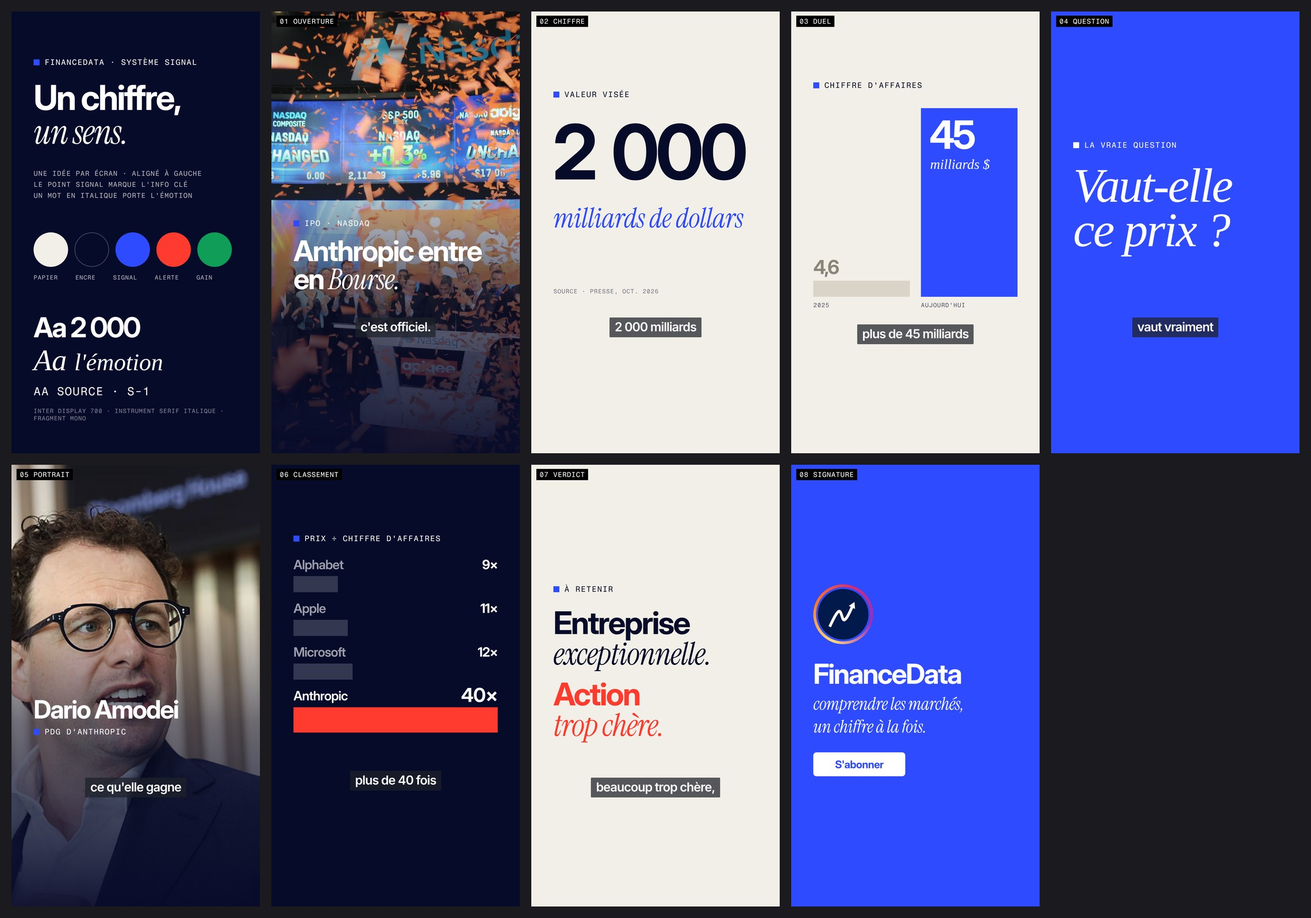
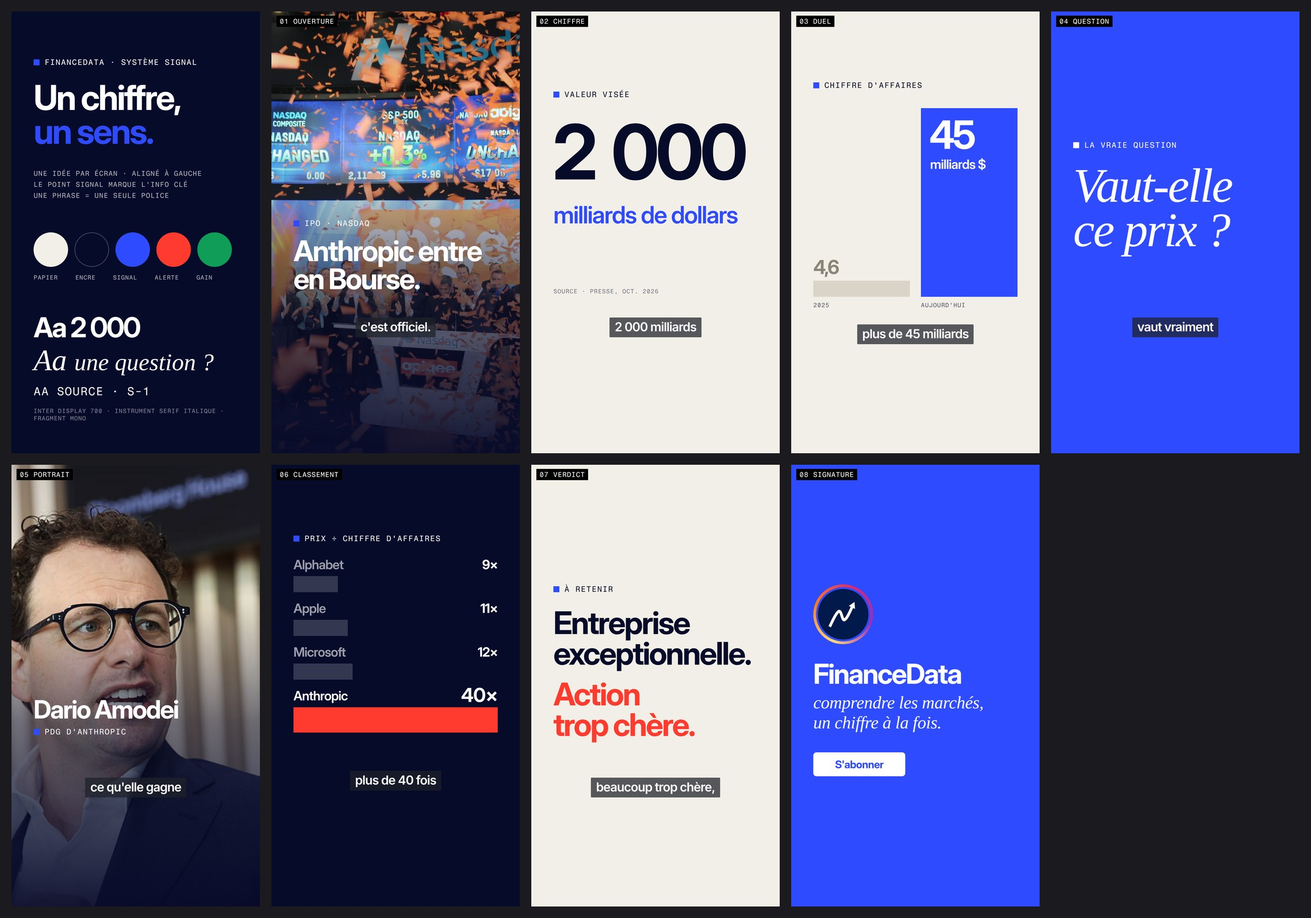
Branding Signal : une seule police par phrase, univers données « Le Décodeur » (9 templates)
Claude-Session: https://claude.ai/code/session_0172khLHKtjafTGZdmNpPSJZ

diff --git a/financedata-univers/branding-signal/planche-donnees.html b/financedata-univers/branding-signal/planche-donnees.html
@@ -1,0 +1,215 @@
+<!doctype html>
+<html lang="fr">
+<head>
+<meta charset="UTF-8">
+<title>FinanceData · Le Décodeur</title>
+<link rel="stylesheet" href="signal.css">
+<script src="rms.js"></script>
+<style>
+  /* Univers « Le Décodeur » : la donnée comme grille de lecture.
+     Anatomie fixe d'un écran de données : rubrique (point Signal + mono) → constat (titre) →
+     ce qui est mesuré (une ligne grise) → le graphique, étiqueté directement → la source (mono).
+     Pas de légende, pas de quadrillage : chaque valeur est écrite là où l'œil la cherche. */
+  .ti { position: absolute; left: 96px; right: 96px; top: 380px; font-weight: 700; font-size: 92px; letter-spacing: -.045em; line-height: 1; }
+  .st { position: absolute; left: 96px; right: 96px; font-weight: 500; font-size: 44px; letter-spacing: -.02em; color: var(--gris); }
+  .encre .st { color: rgba(255,255,255,.6); }
+  .f svg { position: absolute; overflow: visible; }
+  svg text { font-family: "Display"; font-variation-settings: "opsz" 32; }
+  .mono { font-family: "Mono" !important; letter-spacing: .06em; }
+</style>
+</head>
+<body>
+
+<!-- 0. L'univers -->
+<div class="f encre" id="d0">
+  <div class="tag" style="top:300px"><i></i>Le Décodeur</div>
+  <div class="h" style="top:390px; font-size:140px">Les données,<br>enfin lisibles.</div>
+  <div class="st" style="top:720px; font-size:52px; line-height:1.35; color:rgba(255,255,255,.75)">Chaque analyse suit la même grille :</div>
+  <div class="abs" style="left:96px; top:860px; font-weight:700; font-size:96px; letter-spacing:-.045em; line-height:1.3">
+    <div><span style="color:var(--signal)">■</span>&nbsp; Le chiffre</div>
+    <div><span style="color:var(--signal)">■</span>&nbsp; Le repère</div>
+    <div><span style="color:var(--signal)">■</span>&nbsp; Le verdict</div>
+  </div>
+  <div class="src" style="top:1290px; opacity:.6">Ce qui se passe · À quoi le comparer · Ce que ça change pour vous</div>
+</div>
+
+<!-- 1. LA COURBE : une série, deux points étiquetés -->
+<div class="f papier" id="d1"><div class="lbl">D1 LA COURBE</div>
+  <div class="tag" style="top:300px"><i></i>Hermès</div>
+  <div class="ti">−57 % depuis<br>son sommet</div>
+  <div class="st" style="top:590px">Cours de l'action, en euros</div>
+  <svg id="c1" width="1080" height="620" style="left:0; top:660px"></svg>
+  <div class="src" style="top:1250px">Source · Yahoo Finance, oct. 2026</div>
+</div>
+
+<!-- 2. LE REPÈRE : la signature du Décodeur, une échelle avec zones -->
+<div class="f papier" id="d2"><div class="lbl">D2 LE REPÈRE</div>
+  <div class="tag" style="top:300px"><i></i>Valorisation</div>
+  <div class="ti">Anthropic,<br>hors de la grille</div>
+  <div class="st" style="top:590px">Prix ÷ chiffre d'affaires annuel</div>
+  <svg id="c2" width="1080" height="560" style="left:0; top:680px"></svg>
+  <div class="src" style="top:1250px">Repères FinanceData · Companiesmarketcap, oct. 2026</div>
+</div>
+
+<!-- 3. LE DÉCODAGE : traduire un ratio en euros -->
+<div class="f papier" id="d3"><div class="lbl">D3 LE DÉCODAGE</div>
+  <div class="tag" style="top:300px"><i></i>Concrètement</div>
+  <div class="ti">Pour 100 € d'actions,<br>combien de ventes ?</div>
+  <div class="num" style="top:640px; font-size:300px; color:var(--alerte)">2,30 €</div>
+  <div class="st" style="top:920px; color:var(--encre); font-weight:600">par an chez Anthropic</div>
+  <svg id="c3" width="1080" height="200" style="left:0; top:1010px"></svg>
+  <div class="src" style="top:1250px">Calcul · 100 € ÷ 43 (prix ÷ ventes)</div>
+</div>
+
+<!-- 4. LA DÉCOMPOSITION : ce qu'il y a dans un chiffre -->
+<div class="f papier" id="d4"><div class="lbl">D4 LA DÉCOMPOSITION</div>
+  <div class="tag" style="top:300px"><i></i>Perte S1 2026</div>
+  <div class="ti">Une perte surtout<br>comptable</div>
+  <div class="st" style="top:590px">Perte nette, en milliards de dollars</div>
+  <svg id="c4" width="1080" height="560" style="left:0; top:680px"></svg>
+  <div class="src" style="top:1250px">Source · prospectus S-1, oct. 2026</div>
+</div>
+
+<!-- 5. LA PART : grille de 100 cases -->
+<div class="f papier" id="d5"><div class="lbl">D5 LA PART</div>
+  <div class="tag" style="top:300px"><i></i>Dépendance</div>
+  <div class="ti">2 clients font<br>un quart des ventes</div>
+  <div class="st" style="top:590px">Part du chiffre d'affaires, en %</div>
+  <svg id="c5" width="1080" height="600" style="left:0; top:660px"></svg>
+  <div class="src" style="top:1250px">Source · prospectus S-1, oct. 2026</div>
+</div>
+
+<!-- 6. LA PENTE : avant / après -->
+<div class="f papier" id="d6"><div class="lbl">D6 LA PENTE</div>
+  <div class="tag" style="top:300px"><i></i>Prix</div>
+  <div class="ti">Le prix a doublé<br>en cinq mois</div>
+  <div class="st" style="top:590px">Valorisation, en milliards de dollars</div>
+  <svg id="c6" width="1080" height="580" style="left:0; top:660px"></svg>
+  <div class="src" style="top:1250px">Source · presse, mai et oct. 2026</div>
+</div>
+
+<!-- 7. LA GRILLE : le verdict récurrent de fin d'analyse -->
+<div class="f encre" id="d7"><div class="lbl">D7 LA GRILLE</div>
+  <div class="tag" style="top:300px"><i></i>La grille FinanceData</div>
+  <div class="ti">Anthropic</div>
+  <svg id="c7" width="1080" height="700" style="left:0; top:560px"></svg>
+  <div class="src" style="top:1250px; opacity:.6">Lecture FinanceData · pas un conseil en investissement</div>
+</div>
+
+<!-- 8. CHIFFRE CLÉ EN CONTEXTE : nombre + barre de comparaison -->
+<div class="f encre" id="d8"><div class="lbl">D8 LE CONTEXTE</div>
+  <div class="tag" style="top:300px"><i></i>Croissance</div>
+  <div class="ti">Ventes × 14<br>en un an</div>
+  <div class="st" style="top:590px">Rythme de ventes annuel, en milliards $</div>
+  <svg id="c8" width="1080" height="580" style="left:0; top:660px"></svg>
+  <div class="src" style="top:1250px; opacity:.6">Source · prospectus S-1, oct. 2026</div>
+</div>
+
+<script>
+var NS = "http://www.w3.org/2000/svg";
+var C = { encre: "#070b2a", signal: "#2f4bff", gris: "#8a8679", alerte: "#ff3b2f", gain: "#0f9d58", pale: "#dcd7ca" };
+function el(svg, tag, a, text) { var e = document.createElementNS(NS, tag); for (var k in a) e.setAttribute(k, a[k]); if (text != null) e.textContent = text; svg.appendChild(e); return e; }
+function T(svg, x, y, s, size, fill, w, anchor, mono) { return el(svg, "text", { x: x, y: y, "font-size": size, fill: fill, "font-weight": w || 600, "text-anchor": anchor || "start", "letter-spacing": mono ? "2" : "-1", class: mono ? "mono" : "" }, s); }
+function fr(v, d) { return v.toLocaleString("fr-FR", { minimumFractionDigits: d || 0, maximumFractionDigits: d || 0 }).replace(/[  ]/g, " "); }
+
+// D1 : cours d'Hermès, 2018 → aujourd'hui
+(function () {
+  var g = document.getElementById("c1"), R = window.RMS;
+  var t = function (d) { return +d.slice(0, 4) + (+d.slice(5, 7) - 1) / 12 + (+d.slice(8, 10)) / 365; };
+  var t0 = t(R[0][0]), t1 = t(R[R.length - 1][0]);
+  var X = function (v) { return 96 + (v - t0) / (t1 - t0) * 800; }, Y = function (v) { return 520 - v / 3000 * 440; };
+  var pk = R.reduce(function (a, r) { return r[1] > a[1] ? r : a; }), ls = R[R.length - 1], ipk = R.indexOf(pk);
+  var d = function (rows) { return rows.map(function (r, i) { return (i ? "L" : "M") + X(t(r[0])).toFixed(1) + " " + Y(r[1]).toFixed(1); }).join(" "); };
+  el(g, "path", { d: d(R.slice(0, ipk + 1)), fill: "none", stroke: C.encre, "stroke-width": 6, "stroke-linejoin": "round" });
+  el(g, "path", { d: d(R.slice(ipk)), fill: "none", stroke: C.alerte, "stroke-width": 6, "stroke-linejoin": "round" });
+  el(g, "circle", { cx: X(t(pk[0])), cy: Y(pk[1]), r: 14, fill: C.encre });
+  el(g, "circle", { cx: X(t(ls[0])), cy: Y(ls[1]), r: 14, fill: C.alerte });
+  T(g, X(t(pk[0])), Y(pk[1]) - 34, fr(pk[1]) + " €", 54, C.encre, 700, "middle");
+  T(g, X(t(ls[0])) - 26, Y(ls[1]) + 76, fr(ls[1]) + " €", 54, C.alerte, 700, "end");
+  T(g, 96, 570, "2018", 34, C.gris, 500, "start", 1); T(g, 896, 570, "2026", 34, C.gris, 500, "end", 1);
+})();
+
+// D2 : échelle prix ÷ ventes, zones de lecture
+(function () {
+  var g = document.getElementById("c2"), X = function (v) { return 96 + v / 45 * 888; };
+  [[0, 5, "#d6ead9", "Bas"], [5, 15, "#e6e1d4", "Normal"], [15, 45, "#f6d5cf", "Cher"]].forEach(function (z) {
+    el(g, "rect", { x: X(z[0]), y: 200, width: X(z[1]) - X(z[0]), height: 140, fill: z[2] });
+    T(g, (X(z[0]) + X(z[1])) / 2, 390, z[3].toUpperCase(), 28, C.gris, 500, "middle", 1);
+  });
+  [["Alphabet", 9, 140, "end"], ["Apple", 11, 70, "middle"], ["Microsoft", 12, 140, "start"]].forEach(function (m) {
+    el(g, "circle", { cx: X(m[1]), cy: 270, r: 16, fill: C.encre });
+    T(g, X(m[1]) + (m[3] === "end" ? 20 : m[3] === "start" ? -20 : 0), m[2], m[0] + " " + m[1] + "×", 42, C.encre, 600, m[3]);
+  });
+  el(g, "circle", { cx: X(43), cy: 270, r: 26, fill: C.alerte });
+  T(g, X(43) + 26, 140, "Anthropic 43×", 52, C.alerte, 700, "end");
+  T(g, 96, 470, "0×", 34, C.gris, 500, "start", 1); T(g, 984, 470, "45×", 34, C.gris, 500, "end", 1);
+})();
+
+// D3 : 100 € → ventes annuelles, par entreprise
+(function () {
+  var g = document.getElementById("c3");
+  [["Apple", "9,10 €"], ["Microsoft", "8,30 €"], ["Alphabet", "11 €"]].forEach(function (r, i) {
+    var x = 96 + i * 300;
+    T(g, x, 60, r[0], 40, C.gris, 500);
+    T(g, x, 130, r[1], 64, C.encre, 700);
+  });
+})();
+
+// D4 : perte nette décomposée (barre empilée)
+(function () {
+  var g = document.getElementById("c4"), K = 888 / 81;
+  el(g, "rect", { x: 96, y: 150, width: 72 * K, height: 170, fill: C.pale });
+  el(g, "rect", { x: 96 + 72 * K, y: 150, width: 9 * K, height: 170, fill: C.alerte });
+  T(g, 96, 110, "80,7 Md$ au total", 46, C.encre, 700);
+  T(g, 96, 410, "72 Md$", 76, C.encre, 700);
+  T(g, 96, 470, "réévaluations, sans sortie d'argent", 38, C.gris, 500);
+  T(g, 984, 410, "9 Md$", 76, C.alerte, 700, "end");
+  T(g, 984, 470, "calcul et serveurs", 38, C.gris, 500, "end");
+})();
+
+// D5 : 100 cases, 25 en Signal
+(function () {
+  var g = document.getElementById("c5"), s = 44, gap = 8;
+  for (var i = 0; i < 100; i++) {
+    var c = i % 10, r = Math.floor(i / 10);
+    el(g, "rect", { x: 96 + c * (s + gap), y: 20 + r * (s + gap), width: s, height: s, fill: i < 25 ? C.signal : C.pale });
+  }
+  T(g, 760, 120, "25 %", 110, C.signal, 700);
+  T(g, 760, 180, "2 clients", 42, C.encre, 600);
+  T(g, 760, 400, "75 %", 110, C.gris, 700);
+  T(g, 760, 460, "tous les autres", 42, C.gris, 500);
+})();
+
+// D6 : pente 965 → 2 000
+(function () {
+  var g = document.getElementById("c6"), Y = function (v) { return 520 - v / 2000 * 340; };
+  el(g, "line", { x1: 250, y1: Y(965), x2: 830, y2: Y(2000), stroke: C.signal, "stroke-width": 8, "stroke-linecap": "round" });
+  el(g, "circle", { cx: 250, cy: Y(965), r: 18, fill: C.gris });
+  el(g, "circle", { cx: 830, cy: Y(2000), r: 22, fill: C.signal });
+  T(g, 250, Y(965) + 90, "965", 80, C.gris, 700, "middle"); T(g, 250, Y(965) + 140, "MAI", 32, C.gris, 500, "middle", 1);
+  T(g, 830, Y(2000) - 50, "2 000", 96, C.signal, 700, "middle"); T(g, 830, Y(2000) + 80, "OCTOBRE", 32, C.gris, 500, "middle", 1);
+  T(g, 540, 560, "× 2,1", 64, C.encre, 700, "middle");
+})();
+
+// D7 : grille de verdict (3 critères, 3 pastilles)
+(function () {
+  var g = document.getElementById("c7");
+  [["Croissance", "Très forte", 3, C.gain], ["Rentabilité", "Fragile", 1, "#ffb020"], ["Prix", "Très cher", 3, C.alerte]].forEach(function (r, i) {
+    var y = 90 + i * 210;
+    T(g, 96, y, r[0], 64, "#fff", 700);
+    T(g, 96, y + 64, r[1], 44, r[3], 600);
+    for (var k = 0; k < 3; k++) el(g, "rect", { x: 768 + k * 76, y: y - 44, width: 56, height: 56, fill: k < r[2] ? r[3] : "rgba(255,255,255,.14)" });
+  });
+})();
+
+// D8 : 3,2 → 45 Md$ (barres horizontales épaisses, étiquetées)
+(function () {
+  var g = document.getElementById("c8"), K = 888 / 46;
+  el(g, "rect", { x: 96, y: 120, width: 3.2 * K, height: 130, fill: "rgba(255,255,255,.3)" });
+  T(g, 96 + 3.2 * K + 24, 210, "3,2", 72, "#fff", 700); T(g, 96, 90, "IL Y A UN AN", 30, "rgba(255,255,255,.6)", 500, "start", 1);
+  el(g, "rect", { x: 96, y: 360, width: 46 * K, height: 130, fill: C.signal });
+  T(g, 96 + 46 * K - 24, 450, "45", 72, "#fff", 700, "end"); T(g, 96, 330, "AUJOURD'HUI", 30, "rgba(255,255,255,.6)", 500, "start", 1);
+})();
+</script>
+</body>
+</html>

diff --git a/financedata-univers/branding-signal/rms.js b/financedata-univers/branding-signal/rms.js
@@ -1,0 +1,2 @@
+// Hermès (RMS.PA), clôture hebdomadaire, Yahoo Finance, 2018-01 → 2026-10-22
+window.RMS=[["2018-01-05", 447.5], ["2018-01-12", 445.9], ["2018-01-19", 445.1], ["2018-01-26", 448.1], ["2018-02-02", 443.0], ["2018-02-09", 422.9], ["2018-02-16", 445.1], ["2018-02-23", 447.0], ["2018-03-02", 440.8], ["2018-03-09", 447.8], ["2018-03-16", 451.7], ["2018-03-23", 466.3], ["2018-03-29", 481.5], ["2018-04-06", 498.5], ["2018-04-13", 516.6], ["2018-04-20", 517.6], ["2018-04-27", 534.2], ["2018-05-04", 548.0], ["2018-05-11", 584.0], ["2018-05-18", 595.8], ["2018-05-25", 608.0], ["2018-06-01", 607.6], ["2018-06-08", 563.2], ["2018-06-15", 548.6], ["2018-06-22", 529.0], ["2018-06-29", 523.8], ["2018-07-06", 525.2], ["2018-07-13", 537.0], ["2018-07-20", 544.6], ["2018-07-27", 541.0], ["2018-08-03", 543.8], ["2018-08-10", 546.0], ["2018-08-17", 544.6], ["2018-08-24", 554.0], ["2018-08-31", 560.2], ["2018-09-07", 530.4], ["2018-09-14", 541.6], ["2018-09-21", 560.0], ["2018-09-28", 570.6], ["2018-10-05", 535.0], ["2018-10-12", 492.0], ["2018-10-19", 490.8], ["2018-10-26", 499.9], ["2018-11-02", 507.4], ["2018-11-09", 495.2], ["2018-11-16", 491.0], ["2018-11-23", 493.6], ["2018-11-30", 477.7], ["2018-12-07", 482.1], ["2018-12-14", 485.8], ["2018-12-21", 475.4], ["2018-12-28", 476.8], ["2019-01-04", 477.8], ["2019-01-11", 496.4], ["2019-01-18", 500.4], ["2019-01-25", 504.4], ["2019-02-01", 525.0], ["2019-02-08", 528.0], ["2019-02-15", 540.8], ["2019-02-22", 553.8], ["2019-03-01", 562.4], ["2019-03-08", 566.2], ["2019-03-15", 584.0], ["2019-03-22", 583.2], ["2019-03-29", 588.2], ["2019-04-05", 597.4], ["2019-04-12", 599.4], ["2019-04-18", 610.0], ["2019-04-26", 620.0], ["2019-05-03", 621.4], ["2019-05-10", 608.6], ["2019-05-17", 620.0], ["2019-05-24", 603.0], ["2019-05-31", 594.8], ["2019-06-07", 611.4], ["2019-06-14", 612.2], ["2019-06-21", 630.0], ["2019-06-28", 634.2], ["2019-07-05", 637.2], ["2019-07-12", 645.4], ["2019-07-19", 640.8], ["2019-07-26", 645.6], ["2019-08-02", 622.0], ["2019-08-09", 618.2], ["2019-08-16", 605.8], ["2019-08-23", 613.8], ["2019-08-30", 621.0], ["2019-09-06", 655.2], ["2019-09-13", 643.0], ["2019-09-20", 627.4], ["2019-09-27", 630.8], ["2019-10-04", 612.2], ["2019-10-11", 639.4], ["2019-10-18", 632.4], ["2019-10-25", 653.2], ["2019-11-01", 651.8], ["2019-11-08", 648.6], ["2019-11-15", 658.4], ["2019-11-22", 655.8], ["2019-11-29", 680.0], ["2019-12-06", 665.8], ["2019-12-13", 664.4], ["2019-12-20", 671.8], ["2019-12-27", 677.4], ["2020-01-03", 675.4], ["2020-01-10", 689.0], ["2020-01-17", 725.6], ["2020-01-24", 711.0], ["2020-01-31", 676.6], ["2020-02-07", 695.4], ["2020-02-14", 705.0], ["2020-02-21", 694.6], ["2020-02-28", 630.0], ["2020-03-06", 634.0], ["2020-03-13", 572.8], ["2020-03-20", 606.2], ["2020-03-27", 645.0], ["2020-04-03", 604.8], ["2020-04-09", 641.8], ["2020-04-17", 684.8], ["2020-04-24", 674.4], ["2020-04-30", 667.8], ["2020-05-08", 679.8], ["2020-05-15", 665.2], ["2020-05-22", 697.8], ["2020-05-29", 747.8], ["2020-06-05", 786.2], ["2020-06-12", 738.4], ["2020-06-19", 739.2], ["2020-06-26", 737.8], ["2020-07-03", 750.6], ["2020-07-10", 770.0], ["2020-07-17", 750.8], ["2020-07-24", 741.6], ["2020-07-31", 686.2], ["2020-08-07", 692.8], ["2020-08-14", 702.0], ["2020-08-21", 699.0], ["2020-08-28", 719.8], ["2020-09-04", 738.2], ["2020-09-11", 743.2], ["2020-09-18", 744.0], ["2020-09-25", 731.0], ["2020-10-02", 746.4], ["2020-10-09", 761.6], ["2020-10-16", 790.0], ["2020-10-23", 825.0], ["2020-10-30", 799.0], ["2020-11-06", 834.4], ["2020-11-13", 835.0], ["2020-11-20", 857.2], ["2020-11-27", 823.4], ["2020-12-04", 826.4], ["2020-12-11", 835.0], ["2020-12-18", 859.8], ["2020-12-24", 851.4], ["2020-12-31", 879.6], ["2021-01-08", 887.4], ["2021-01-15", 881.0], ["2021-01-22", 875.6], ["2021-01-29", 842.6], ["2021-02-05", 900.6], ["2021-02-12", 924.4], ["2021-02-19", 963.6], ["2021-02-26", 923.2], ["2021-03-05", 890.0], ["2021-03-12", 954.2], ["2021-03-19", 947.2], ["2021-03-26", 943.2], ["2021-04-01", 956.6], ["2021-04-09", 989.6], ["2021-04-16", 1026.5], ["2021-04-23", 1050.0], ["2021-04-30", 1044.0], ["2021-05-07", 1073.0], ["2021-05-14", 1068.0], ["2021-05-21", 1082.0], ["2021-05-28", 1144.0], ["2021-06-04", 1158.5], ["2021-06-11", 1197.5], ["2021-06-18", 1213.0], ["2021-06-25", 1227.0], ["2021-07-02", 1218.0], ["2021-07-09", 1235.5], ["2021-07-16", 1250.0], ["2021-07-23", 1288.0], ["2021-07-30", 1289.0], ["2021-08-06", 1340.5], ["2021-08-13", 1347.5], ["2021-08-20", 1233.0], ["2021-08-27", 1241.0], ["2021-09-03", 1255.0], ["2021-09-10", 1302.0], ["2021-09-17", 1277.5], ["2021-09-24", 1288.0], ["2021-10-01", 1195.5], ["2021-10-08", 1212.5], ["2021-10-15", 1289.5], ["2021-10-22", 1358.0], ["2021-10-29", 1370.5], ["2021-11-05", 1459.0], ["2021-11-12", 1478.5], ["2021-11-19", 1675.5], ["2021-11-26", 1604.0], ["2021-12-03", 1606.5], ["2021-12-10", 1592.5], ["2021-12-17", 1525.0], ["2021-12-24", 1530.5], ["2021-12-31", 1536.0], ["2022-01-07", 1447.0], ["2022-01-14", 1298.5], ["2022-01-21", 1364.0], ["2022-01-28", 1295.5], ["2022-02-04", 1310.0], ["2022-02-11", 1202.0], ["2022-02-18", 1203.0], ["2022-02-25", 1230.0], ["2022-03-04", 1160.5], ["2022-03-11", 1125.0], ["2022-03-18", 1218.0], ["2022-03-25", 1224.0], ["2022-04-01", 1270.5], ["2022-04-08", 1294.0], ["2022-04-14", 1283.5], ["2022-04-22", 1232.5], ["2022-04-29", 1186.5], ["2022-05-06", 1042.0], ["2022-05-13", 1070.0], ["2022-05-20", 1034.5], ["2022-05-27", 1092.0], ["2022-06-03", 1119.0], ["2022-06-10", 1049.0], ["2022-06-17", 973.8], ["2022-06-24", 1067.5], ["2022-07-01", 1065.5], ["2022-07-08", 1070.0], ["2022-07-15", 1123.0], ["2022-07-22", 1205.0], ["2022-07-29", 1334.0], ["2022-08-05", 1348.0], ["2022-08-12", 1378.0], ["2022-08-19", 1396.5], ["2022-08-26", 1336.5], ["2022-09-02", 1271.0], ["2022-09-09", 1309.0], ["2022-09-16", 1226.5], ["2022-09-23", 1171.5], ["2022-09-30", 1217.0], ["2022-10-07", 1265.0], ["2022-10-14", 1274.5], ["2022-10-21", 1304.0], ["2022-10-28", 1320.0], ["2022-11-04", 1357.0], ["2022-11-11", 1468.0], ["2022-11-18", 1470.0], ["2022-11-25", 1478.5], ["2022-12-02", 1520.5], ["2022-12-09", 1528.5], ["2022-12-16", 1486.5], ["2022-12-23", 1443.0], ["2022-12-30", 1445.0], ["2023-01-06", 1591.5], ["2023-01-13", 1651.0], ["2023-01-20", 1628.0], ["2023-01-27", 1697.5], ["2023-02-03", 1778.0], ["2023-02-10", 1675.0], ["2023-02-17", 1747.0], ["2023-02-24", 1677.5], ["2023-03-03", 1735.5], ["2023-03-10", 1720.0], ["2023-03-17", 1730.0], ["2023-03-24", 1787.0], ["2023-03-31", 1864.0], ["2023-04-06", 1872.0], ["2023-04-14", 1975.0], ["2023-04-21", 2003.5], ["2023-04-28", 1966.8], ["2023-05-05", 1993.8], ["2023-05-12", 1975.4], ["2023-05-19", 2002.5], ["2023-05-26", 1959.2], ["2023-06-02", 1957.2], ["2023-06-09", 1916.4], ["2023-06-16", 1986.0], ["2023-06-23", 1901.4], ["2023-06-30", 1990.0], ["2023-07-07", 1862.2], ["2023-07-14", 1996.2], ["2023-07-21", 1915.0], ["2023-07-28", 2011.5], ["2023-08-04", 1927.0], ["2023-08-11", 1924.8], ["2023-08-18", 1862.6], ["2023-08-25", 1883.2], ["2023-09-01", 1885.8], ["2023-09-08", 1849.4], ["2023-09-15", 1903.6], ["2023-09-22", 1793.0], ["2023-09-29", 1729.8], ["2023-10-06", 1756.4], ["2023-10-13", 1705.8], ["2023-10-20", 1654.2], ["2023-10-27", 1748.8], ["2023-11-03", 1814.6], ["2023-11-10", 1845.4], ["2023-11-17", 1924.6], ["2023-11-24", 1951.2], ["2023-12-01", 1915.2], ["2023-12-08", 1982.4], ["2023-12-15", 2023.5], ["2023-12-22", 1941.2], ["2023-12-29", 1918.8], ["2024-01-05", 1819.8], ["2024-01-12", 1836.8], ["2024-01-19", 1832.8], ["2024-01-26", 1966.2], ["2024-02-02", 2023.0], ["2024-02-09", 2174.5], ["2024-02-16", 2199.0], ["2024-02-23", 2301.0], ["2024-03-01", 2308.0], ["2024-03-08", 2313.0], ["2024-03-15", 2390.0], ["2024-03-22", 2386.0], ["2024-03-28", 2366.0], ["2024-04-05", 2345.0], ["2024-04-12", 2270.0], ["2024-04-19", 2320.0], ["2024-04-26", 2350.0], ["2024-05-03", 2285.0], ["2024-05-10", 2296.0], ["2024-05-17", 2295.0], ["2024-05-24", 2180.0], ["2024-05-31", 2176.0], ["2024-06-07", 2201.0], ["2024-06-14", 2112.0], ["2024-06-21", 2161.0], ["2024-06-28", 2140.0], ["2024-07-05", 2116.0], ["2024-07-12", 2170.0], ["2024-07-19", 2062.0], ["2024-07-26", 2075.0], ["2024-08-02", 1960.5], ["2024-08-09", 2016.0], ["2024-08-16", 2121.0], ["2024-08-23", 2195.0], ["2024-08-30", 2169.0], ["2024-09-06", 1909.5], ["2024-09-13", 1916.0], ["2024-09-20", 1930.0], ["2024-09-27", 2232.0], ["2024-10-04", 2138.0], ["2024-10-11", 2132.0], ["2024-10-18", 2089.0], ["2024-10-25", 2105.0], ["2024-11-01", 2081.0], ["2024-11-08", 2068.0], ["2024-11-15", 2034.0], ["2024-11-22", 2020.0], ["2024-11-29", 2065.0], ["2024-12-06", 2259.0], ["2024-12-13", 2274.0], ["2024-12-20", 2304.0], ["2024-12-27", 2314.0], ["2025-01-03", 2237.0], ["2025-01-10", 2367.0], ["2025-01-17", 2490.0], ["2025-01-24", 2662.0], ["2025-01-31", 2724.0], ["2025-02-07", 2706.0], ["2025-02-14", 2839.0], ["2025-02-21", 2749.0], ["2025-02-28", 2737.0], ["2025-03-07", 2524.0], ["2025-03-14", 2509.0], ["2025-03-21", 2513.0], ["2025-03-28", 2436.0], ["2025-04-04", 2273.0], ["2025-04-11", 2287.0], ["2025-04-17", 2287.0], ["2025-04-25", 2381.0], ["2025-05-02", 2452.0], ["2025-05-09", 2453.0], ["2025-05-16", 2584.0], ["2025-05-23", 2373.0], ["2025-05-30", 2428.0], ["2025-06-06", 2320.0], ["2025-06-13", 2295.0], ["2025-06-20", 2257.0], ["2025-06-27", 2275.0], ["2025-07-04", 2342.0], ["2025-07-11", 2436.0], ["2025-07-18", 2367.0], ["2025-07-25", 2385.0], ["2025-08-01", 2078.0], ["2025-08-08", 2114.0], ["2025-08-15", 2065.0], ["2025-08-22", 2095.0], ["2025-08-29", 2091.0], ["2025-09-05", 2039.0], ["2025-09-12", 2090.0], ["2025-09-19", 2129.0], ["2025-09-26", 2069.0], ["2025-10-03", 2161.0], ["2025-10-10", 2035.0], ["2025-10-17", 2191.0], ["2025-10-24", 2194.0], ["2025-10-31", 2149.0], ["2025-11-07", 2058.0], ["2025-11-14", 2156.0], ["2025-11-21", 2124.0], ["2025-11-28", 2100.0], ["2025-12-05", 2165.0], ["2025-12-12", 2134.0], ["2025-12-19", 2102.0], ["2025-12-24", 2095.0], ["2026-01-02", 2104.0], ["2026-01-09", 2217.0], ["2026-01-16", 2190.0], ["2026-01-23", 2130.0], ["2026-01-30", 2029.0], ["2026-02-06", 2055.0], ["2026-02-13", 2147.0], ["2026-02-20", 2112.0], ["2026-02-27", 2049.0], ["2026-03-06", 1905.5], ["2026-03-13", 1873.0], ["2026-03-20", 1656.0], ["2026-03-27", 1621.5], ["2026-04-02", 1667.5], ["2026-04-10", 1757.5], ["2026-04-17", 1741.0], ["2026-04-24", 1648.0], ["2026-04-30", 1623.5], ["2026-05-08", 1661.0], ["2026-05-15", 1575.5], ["2026-05-22", 1605.0], ["2026-05-29", 1620.0], ["2026-06-05", 1619.0], ["2026-06-12", 1697.0], ["2026-06-19", 1721.5], ["2026-06-26", 1626.0], ["2026-07-03", 1641.0], ["2026-07-10", 1641.5], ["2026-07-17", 1681.0], ["2026-07-24", 1643.0], ["2026-07-31", 1531.5], ["2026-08-07", 1635.5], ["2026-08-14", 1576.0], ["2026-08-21", 1573.0], ["2026-08-28", 1598.0], ["2026-09-04", 1457.0], ["2026-09-11", 1399.5], ["2026-09-18", 1331.5], ["2026-09-25", 1347.5], ["2026-10-02", 1299.5], ["2026-10-09", 1283.0], ["2026-10-16", 1337.5], ["2026-10-22", 1264.0]];

diff --git a/financedata-univers/branding-signal/planche.html b/financedata-univers/branding-signal/planche.html
@@ -3,45 +3,15 @@
 <head>
 <meta charset="UTF-8">
 <title>FinanceData · Signal</title>
-<style>
-  /* Système « Signal » : un chiffre, un sens. Grille éditoriale alignée à gauche (marge 96 px),
-     Inter Display pour l'information, Instrument Serif italique pour le mot qui porte l'émotion,
-     Fragment Mono pour les repères (source, rubrique). Signature : le point Signal (carré bleu). */
-  @font-face { font-family: "Display"; src: url("fonts/inter-display-latin-var.woff2"); font-weight: 100 900; }
-  @font-face { font-family: "Serif"; src: url("fonts/instrument-serif-latin-400-italic.woff2"); font-style: italic; }
-  @font-face { font-family: "Serif"; src: url("fonts/instrument-serif-latin-400-normal.woff2"); font-style: normal; }
-  @font-face { font-family: "Mono"; src: url("fonts/fragment-mono-latin-400-normal.woff2"); }
-  :root { --papier: #f2efe8; --encre: #070b2a; --signal: #2f4bff; --gris: #8a8679; --alerte: #ff3b2f; --gain: #0f9d58; }
-  * { margin: 0; padding: 0; box-sizing: border-box; }
-  body { background: #1b1b1f; display: flex; flex-wrap: wrap; gap: 60px; padding: 60px; width: 4620px; font-family: "Display"; font-variation-settings: "opsz" 32; }
-  .f { position: relative; width: 1080px; height: 1920px; overflow: hidden; flex: none; }
-  .papier { background: var(--papier); color: var(--encre); }
-  .encre { background: var(--encre); color: #fff; }
-  .signal { background: var(--signal); color: #fff; }
-  .abs { position: absolute; }
-  .ph { position: absolute; inset: 0; width: 100%; height: 100%; object-fit: cover; }
-  .veil { position: absolute; inset: 0; background: linear-gradient(180deg, rgba(7,11,42,.15) 0%, rgba(7,11,42,0) 30%, rgba(7,11,42,.55) 58%, rgba(7,11,42,.95) 100%); }
-  /* repère : point Signal + rubrique en mono */
-  .tag { position: absolute; left: 96px; font-family: "Mono"; font-size: 34px; letter-spacing: .08em; text-transform: uppercase; display: flex; align-items: center; gap: 22px; }
-  .tag i { width: 26px; height: 26px; background: var(--signal); display: block; }
-  .signal .tag i { background: #fff; }
-  .h { position: absolute; left: 96px; right: 96px; font-weight: 700; letter-spacing: -.045em; line-height: .98; }
-  .h em { font-family: "Serif"; font-style: italic; font-weight: 400; letter-spacing: -.02em; }
-  .num { position: absolute; left: 84px; font-weight: 700; letter-spacing: -.06em; line-height: .85; font-feature-settings: "tnum" 1; }
-  .unit { position: absolute; left: 96px; font-family: "Serif"; font-style: italic; letter-spacing: -.01em; }
-  .src { position: absolute; left: 96px; font-family: "Mono"; font-size: 26px; letter-spacing: .06em; text-transform: uppercase; opacity: .55; }
-  .cap { position: absolute; left: 0; right: 0; top: 1330px; text-align: center; }
-  .cap span { display: inline-block; padding: 8px 22px 13px; border-radius: 4px; background: rgba(30,34,42,.74); font-family: "Display"; font-variation-settings: "opsz" 14; font-weight: 600; font-size: 54px; letter-spacing: -.04em; color: #fff; }
-  .lbl { position: absolute; top: 18px; left: 22px; font-family: "Mono"; font-size: 30px; color: #fff; background: #000; padding: 6px 14px; z-index: 9; letter-spacing: .04em; }
-</style>
+<link rel="stylesheet" href="signal.css">
 </head>
 <body>
 
 <!-- 0. Carte d'identité -->
 <div class="f encre" id="f0">
   <div class="tag" style="top:200px"><i></i>FinanceData · Système Signal</div>
-  <div class="h" style="top:300px; font-size:150px">Un chiffre,<br><em>un sens.</em></div>
-  <div class="src" style="top:680px; opacity:.7; font-size:30px; line-height:1.6">Une idée par écran · Aligné à gauche<br>Le point Signal marque l'info clé<br>Un mot en italique porte l'émotion</div>
+  <div class="h" style="top:300px; font-size:150px">Un chiffre,<br><span style="color:var(--signal)">un sens.</span></div>
+  <div class="src" style="top:680px; opacity:.7; font-size:30px; line-height:1.6">Une idée par écran · Aligné à gauche<br>Le point Signal marque l'info clé<br>Une phrase = une seule police</div>
   <div class="abs" style="top:960px; left:96px; display:flex; gap:28px">
     <div style="width:150px;height:150px;border-radius:50%;background:#f2efe8"></div>
     <div style="width:150px;height:150px;border-radius:50%;background:#070b2a;box-shadow:inset 0 0 0 3px rgba(255,255,255,.25)"></div>
@@ -51,7 +21,7 @@
   </div>
   <div class="src" style="top:1140px; opacity:.7; word-spacing:58px">Papier Encre Signal Alerte Gain</div>
   <div class="abs" style="top:1300px; left:96px; font-weight:700; font-size:120px; letter-spacing:-.05em">Aa 2 000</div>
-  <div class="abs" style="top:1440px; left:96px; font-family:Serif; font-style:italic; font-size:130px">Aa <span style="font-size:.8em">l'émotion</span></div>
+  <div class="abs" style="top:1440px; left:96px; font-family:Serif; font-style:italic; font-size:130px">Aa <span style="font-size:.8em">une question ?</span></div>
   <div class="abs" style="top:1620px; left:96px; font-family:Mono; font-size:50px; letter-spacing:.06em">AA SOURCE · S-1</div>
   <div class="src" style="top:1720px; opacity:.5">Inter Display 700 · Instrument Serif italique · Fragment Mono</div>
 </div>
@@ -60,7 +30,7 @@
 <div class="f encre" id="f1"><div class="lbl">01 OUVERTURE</div>
   <img class="ph" src="img/ipo-confettis.jpg"><div class="veil"></div>
   <div class="tag" style="top:900px; color:#fff"><i></i>IPO · Nasdaq</div>
-  <div class="h" style="top:980px; font-size:124px; color:#fff">Anthropic entre<br>en <em>Bourse.</em></div>
+  <div class="h" style="top:980px; font-size:124px; color:#fff">Anthropic entre<br>en Bourse.</div>
   <div class="cap"><span>c'est officiel.</span></div>
 </div>
 
@@ -68,7 +38,7 @@
 <div class="f papier" id="f2"><div class="lbl">02 CHIFFRE</div>
   <div class="tag" style="top:340px"><i></i>Valeur visée</div>
   <div class="num" style="top:470px; font-size:330px">2 000</div>
-  <div class="unit" style="top:820px; font-size:120px; color:var(--signal)">milliards de dollars</div>
+  <div class="unit" style="top:820px; font-size:104px; color:var(--signal)">milliards de dollars</div>
   <div class="src" style="top:1200px">Source · presse, oct. 2026</div>
   <div class="cap"><span>2 000 milliards</span></div>
 </div>
@@ -80,7 +50,7 @@
   <div class="abs" style="left:96px; top:1060px; font-weight:700; font-size:84px; letter-spacing:-.05em; color:var(--gris)">4,6</div>
   <div class="abs" style="left:564px; top:420px; width:420px; height:820px; background:var(--signal)"></div>
   <div class="abs" style="left:600px; top:450px; font-weight:700; font-size:170px; letter-spacing:-.06em; color:#fff; line-height:1">45</div>
-  <div class="abs" style="left:604px; top:630px; font-family:Serif; font-style:italic; font-size:60px; color:#fff">milliards $</div>
+  <div class="abs" style="left:604px; top:630px; font-weight:600; font-size:56px; letter-spacing:-.03em; color:#fff">milliards $</div>
   <div class="src" style="top:1260px; opacity:.7">2025</div>
   <div class="src" style="top:1260px; left:564px; opacity:.7">Aujourd'hui</div>
   <div class="cap" style="top:1360px"><span>plus de 45 milliards</span></div>
@@ -116,8 +86,8 @@
 <!-- 7. VERDICT : deux affirmations, la seconde en alerte -->
 <div class="f papier" id="f7"><div class="lbl">07 VERDICT</div>
   <div class="tag" style="top:520px"><i></i>À retenir</div>
-  <div class="h" style="top:620px; font-size:136px">Entreprise<br><em>exceptionnelle.</em></div>
-  <div class="h" style="top:930px; font-size:136px; color:var(--alerte)">Action<br><em>trop chère.</em></div>
+  <div class="h" style="top:620px; font-size:136px">Entreprise<br>exceptionnelle.</div>
+  <div class="h" style="top:930px; font-size:136px; color:var(--alerte)">Action<br>trop chère.</div>
   <div class="cap" style="top:1360px"><span>beaucoup trop chère,</span></div>
 </div>
 
@@ -125,7 +95,7 @@
 <div class="f signal" id="f8"><div class="lbl">08 SIGNATURE</div>
   <div class="abs" style="left:96px; top:520px; width:260px; height:260px; border-radius:50%; padding:12px; background:conic-gradient(from 200deg, #feda75, #fa7e1e, #d62976, #962fbf, #feda75)"><div style="width:100%;height:100%;border-radius:50%;overflow:hidden;border:8px solid #2f4bff"><img src="img/logo-financedata.png" style="width:100%;height:100%;display:block"></div></div>
   <div class="h" style="top:850px; font-size:120px">FinanceData</div>
-  <div class="unit" style="top:990px; font-size:76px; color:#fff">comprendre les marchés,<br>un chiffre à la fois.</div>
+  <div class="unit" style="top:990px; font-size:76px; color:#fff; font-family:Serif; font-style:italic; font-weight:400; letter-spacing:-.01em">comprendre les marchés,<br>un chiffre à la fois.</div>
   <div class="abs" style="left:96px; top:1250px; width:400px; height:104px; border-radius:14px; background:#fff; color:var(--signal); font-weight:700; font-size:46px; letter-spacing:-.02em; text-align:center; line-height:104px">S'abonner</div>
 </div>
 

diff --git a/financedata-univers/branding-signal/signal.css b/financedata-univers/branding-signal/signal.css
@@ -1,0 +1,29 @@
+/* Système « Signal » : un chiffre, un sens. Grille éditoriale alignée à gauche (marge 96 px),
+     Inter Display pour l'information, Instrument Serif italique seulement pour un bloc entier (question, signature) :
+     jamais deux polices dans une même phrase ou un même titre ;
+     Fragment Mono pour les repères (source, rubrique). Signature : le point Signal (carré bleu). */
+  @font-face { font-family: "Display"; src: url("fonts/inter-display-latin-var.woff2"); font-weight: 100 900; }
+  @font-face { font-family: "Serif"; src: url("fonts/instrument-serif-latin-400-italic.woff2"); font-style: italic; }
+  @font-face { font-family: "Serif"; src: url("fonts/instrument-serif-latin-400-normal.woff2"); font-style: normal; }
+  @font-face { font-family: "Mono"; src: url("fonts/fragment-mono-latin-400-normal.woff2"); }
+  :root { --papier: #f2efe8; --encre: #070b2a; --signal: #2f4bff; --gris: #8a8679; --alerte: #ff3b2f; --gain: #0f9d58; }
+  * { margin: 0; padding: 0; box-sizing: border-box; }
+  body { background: #1b1b1f; display: flex; flex-wrap: wrap; gap: 60px; padding: 60px; width: 4620px; font-family: "Display"; font-variation-settings: "opsz" 32; }
+  .f { position: relative; width: 1080px; height: 1920px; overflow: hidden; flex: none; }
+  .papier { background: var(--papier); color: var(--encre); }
+  .encre { background: var(--encre); color: #fff; }
+  .signal { background: var(--signal); color: #fff; }
+  .abs { position: absolute; }
+  .ph { position: absolute; inset: 0; width: 100%; height: 100%; object-fit: cover; }
+  .veil { position: absolute; inset: 0; background: linear-gradient(180deg, rgba(7,11,42,.15) 0%, rgba(7,11,42,0) 30%, rgba(7,11,42,.55) 58%, rgba(7,11,42,.95) 100%); }
+  /* repère : point Signal + rubrique en mono */
+  .tag { position: absolute; left: 96px; font-family: "Mono"; font-size: 34px; letter-spacing: .08em; text-transform: uppercase; display: flex; align-items: center; gap: 22px; }
+  .tag i { width: 26px; height: 26px; background: var(--signal); display: block; }
+  .signal .tag i { background: #fff; }
+  .h { position: absolute; left: 96px; right: 96px; font-weight: 700; letter-spacing: -.045em; line-height: .98; }
+    .num { position: absolute; left: 84px; font-weight: 700; letter-spacing: -.06em; line-height: .85; font-feature-settings: "tnum" 1; }
+  .unit { position: absolute; left: 96px; font-weight: 600; letter-spacing: -.035em; }
+  .src { position: absolute; left: 96px; font-family: "Mono"; font-size: 26px; letter-spacing: .06em; text-transform: uppercase; opacity: .55; }
+  .cap { position: absolute; left: 0; right: 0; top: 1330px; text-align: center; }
+  .cap span { display: inline-block; padding: 8px 22px 13px; border-radius: 4px; background: rgba(30,34,42,.74); font-family: "Display"; font-variation-settings: "opsz" 14; font-weight: 600; font-size: 54px; letter-spacing: -.04em; color: #fff; }
+  .lbl { position: absolute; top: 18px; left: 22px; font-family: "Mono"; font-size: 30px; color: #fff; background: #000; padding: 6px 14px; z-index: 9; letter-spacing: .04em; }
